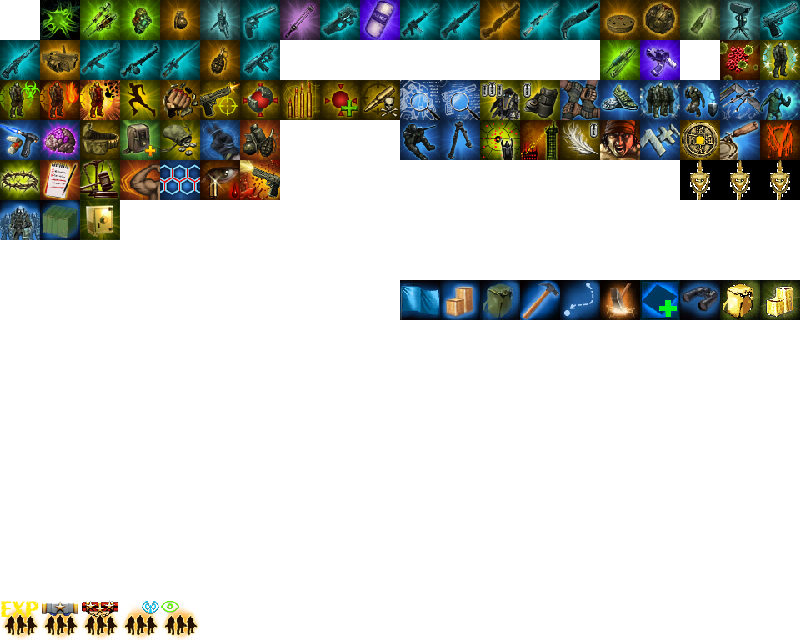
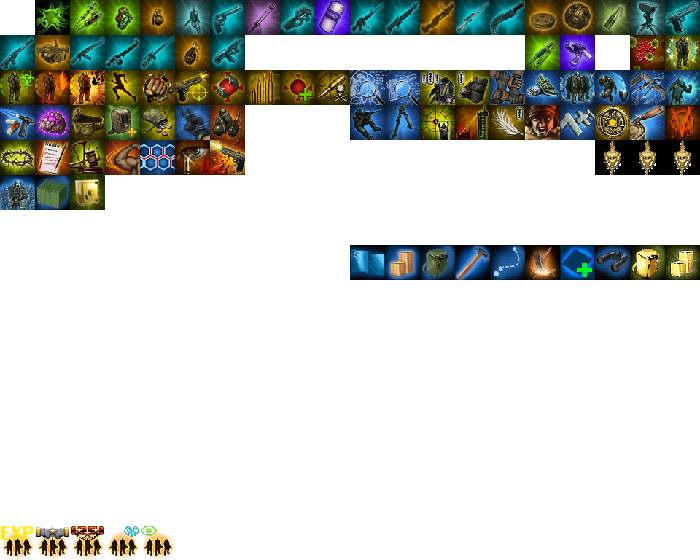
???????? ????? ??? ??????? 1280?1024 ??? ??????????????? ?????????????. ????????? ??? ? ??????? ??????????? ???????.

diff --git a/js/logic.js b/js/logic.js
@@ -1,37 +1,4 @@
-function talentclick(event){
-	var talent = event.data;
-	var ranks = talent_grid_model.layout_model[talent_grid_model.get_row_for_level(talent.lvlreq)].columns[talent.column].items;
-	var i;
-	for (i = 0; i < ranks.length; i++) {
-		if (!player_model.talent_learned(ranks[i]))
-			break;
-	}
-	if (i < ranks.length) {
-		if (player_model.can_learn_talent(ranks[i])){
-			player_model.learn_talent(ranks[i]);
-			talent_grid_model.update_layout_options();
-		}
-	}
-}
-function talentrightclick(event){
-	if (typeof last_visited_element == 'undefined')
-		return;
-	var talent = last_visited_element;
-	var ranks = talent_grid_model.layout_model[talent_grid_model.get_row_for_level(talent.lvlreq)].columns[talent.column].items;
-	var i;
-	for (i = ranks.length; i > 0; i--) {
-		if (player_model.talent_learned(ranks[i-1]))
-			break;
-	}
-	if (i > 0) {
-		if (player_model.can_unlearn_talent(ranks[i-1])) {
-			player_model.unlearn_talent(ranks[i-1]);
-			talent_grid_model.update_layout_options();
-		}
-	}
-}
-
-//Эта группа функций отвечает за то, чтобы событие правой кнопки мыши корректно вызывало соответствующую функцию для талантов
+//Эта группа функций отвечает за то, чтобы событие правой кнопки мыши корректно вызывало соответствующую функцию для талантов
 function talenthover(event) {
 	last_visited_element = event.data;
 	handled_recently = true;
@@ -179,8 +146,8 @@ var talent_grid_model = {
 		} else {
 			var talent_image_id = talent.id;
 		}
-		var diffy = (~~(talent_image_id / 20)) * 40;
-		var diffx = talent_image_id % 20 * 40;
+		var diffy = (~~(talent_image_id / 20)) * 35;
+		var diffx = talent_image_id % 20 * 35;
 		$("#" + this.current_class_data.prefix + "-talent-container" + talent.id).css("background","url(" + imageName +") -" + diffx + "px -" + diffy + "px");
 	},
 	fill_grid_rows: function(){

diff --git a/index.html b/index.html
@@ -97,7 +97,7 @@
 	</div>
 	<div class="item-manager">
 	<div id="armor" class="tunable-item">
-		<div><a target="_blank" id="armor-link"><span id="armor-name"></span><span id="armor-value"></span></a></div>
+		<div class="tunable-item-name"><a target="_blank" id="armor-link"><span id="armor-name"></span><span id="armor-value"></span></a></div>
 		<div style="overflow:auto;">
 			<div class="draggable-landing">
 				<div id="armor-container" style="overflow:auto;">
@@ -126,7 +126,7 @@
 		</div>
 	</div>
 	<div id="primary" class="tunable-item">
-		<div><a target="_blank" id="primary-link"><span id="primary-name"></span><span id="primary-value"></span></a></div>
+		<div class="tunable-item-name"><a target="_blank" id="primary-link"><span id="primary-name"></span><span id="primary-value"></span></a></div>
 		<div style="overflow:auto;">
 			<div class="draggable-landing">
 				<div id="primary-container" style="overflow:auto;">
@@ -155,7 +155,7 @@
 		</div>
 	</div>
 	<div id="secondary" class="tunable-item">
-		<div><a target="_blank" id="secondary-link"><span id="secondary-name"></span><span id="secondary-value"></span></a></div>
+		<div class="tunable-item-name"><a target="_blank" id="secondary-link"><span id="secondary-name"></span><span id="secondary-value"></span></a></div>
 		<div style="overflow:auto;">
 			<div class="draggable-landing">
 				<div id="secondary-container" style="overflow:auto;">

diff --git a/css/local.css b/css/local.css
@@ -7,7 +7,7 @@
 .ui-state-default a svg{
     margin-left: auto;
     margin-right: auto;
-	width:128px;
+	width:110px;
 	height:80px;
 	margin:5px;
 }
@@ -57,8 +57,8 @@
 }
 .level-content .talent-container, .level-content .talent-placeholder{
 	float:left;
-	height:40px;
-	width:40px;
+	height:35px;
+	width:35px;
 	margin:2px;
 	position:relative;
 }
@@ -78,8 +78,8 @@
 }
 .talent-container  .lock-rect{
 	position:absolute;
-	width:40px;
-	height:40px;
+	width:100%;
+	height:100%;
 	background-color:rgba(255, 0, 0, 0.4);
 }
 .talent-container .fake-tooltip-container {
@@ -168,8 +168,8 @@ width: 1px;
 	margin:2px;
 	color:white;
 	font-size:13pt;
-	padding:8px;
-	width:200px;
+	padding:3px;
+	width:190px;
 	float:left;
 }
 .gray { background-color:gray;}
@@ -185,6 +185,9 @@ width: 1px;
 	position:relative;
 	margin-left:-10px;
 	float:left;
+}
+.tunable-item-name {
+	margin:2px;
 }
 
 .tunable-item:hover  .fake-tooltip,.special-item:hover   .fake-tooltip {
@@ -361,7 +364,7 @@ input[type=radio]:not(old):checked +  label > span > span{
 	padding:3px;
 	display:block;
 	color:white;
-	width:140px;
+	width:100px;
 	float:left;
 	font-size:10pt;
 }
@@ -375,5 +378,5 @@ input[type=radio]:not(old):checked +  label > span > span{
 }
 .item-manager {
 	float:left;
-	width:700px;
+	width:610px;
 }

diff --git a/js/talent-calculator.js b/js/talent-calculator.js
@@ -1,4 +1,35 @@
-
+function talentclick(event){
+	var talent = event.data;
+	var ranks = talent_grid_model.layout_model[talent_grid_model.get_row_for_level(talent.lvlreq)].columns[talent.column].items;
+	var i;
+	for (i = 0; i < ranks.length; i++) {
+		if (!player_model.talent_learned(ranks[i]))
+			break;
+	}
+	if (i < ranks.length) {
+		if (player_model.can_learn_talent(ranks[i])){
+			player_model.learn_talent(ranks[i]);
+			talent_grid_model.update_layout_options();
+		}
+	}
+}
+function talentrightclick(event){
+	if (typeof last_visited_element == 'undefined')
+		return;
+	var talent = last_visited_element;
+	var ranks = talent_grid_model.layout_model[talent_grid_model.get_row_for_level(talent.lvlreq)].columns[talent.column].items;
+	var i;
+	for (i = ranks.length; i > 0; i--) {
+		if (player_model.talent_learned(ranks[i-1]))
+			break;
+	}
+	if (i > 0) {
+		if (player_model.can_unlearn_talent(ranks[i-1])) {
+			player_model.unlearn_talent(ranks[i-1]);
+			talent_grid_model.update_layout_options();
+		}
+	}
+}
 $(document).ready(function(){ 
   document.oncontextmenu = function() {return false;};
   
